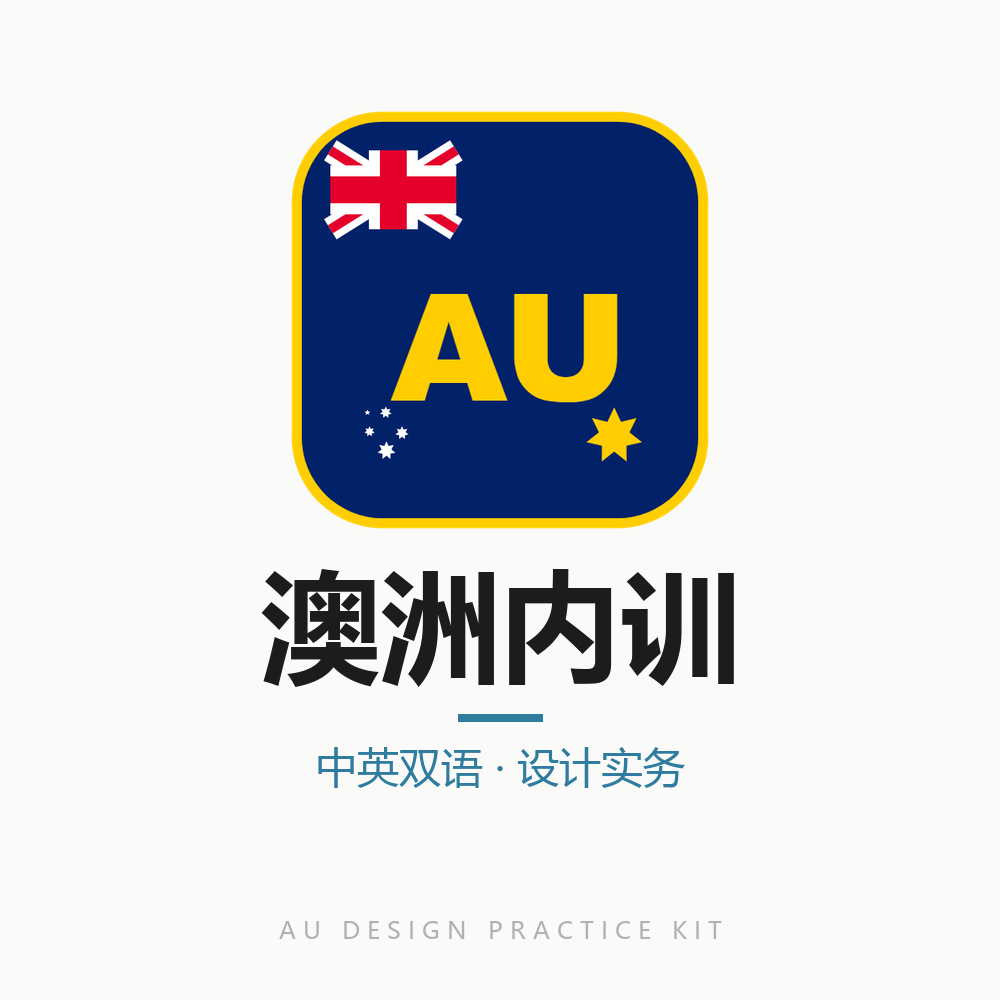
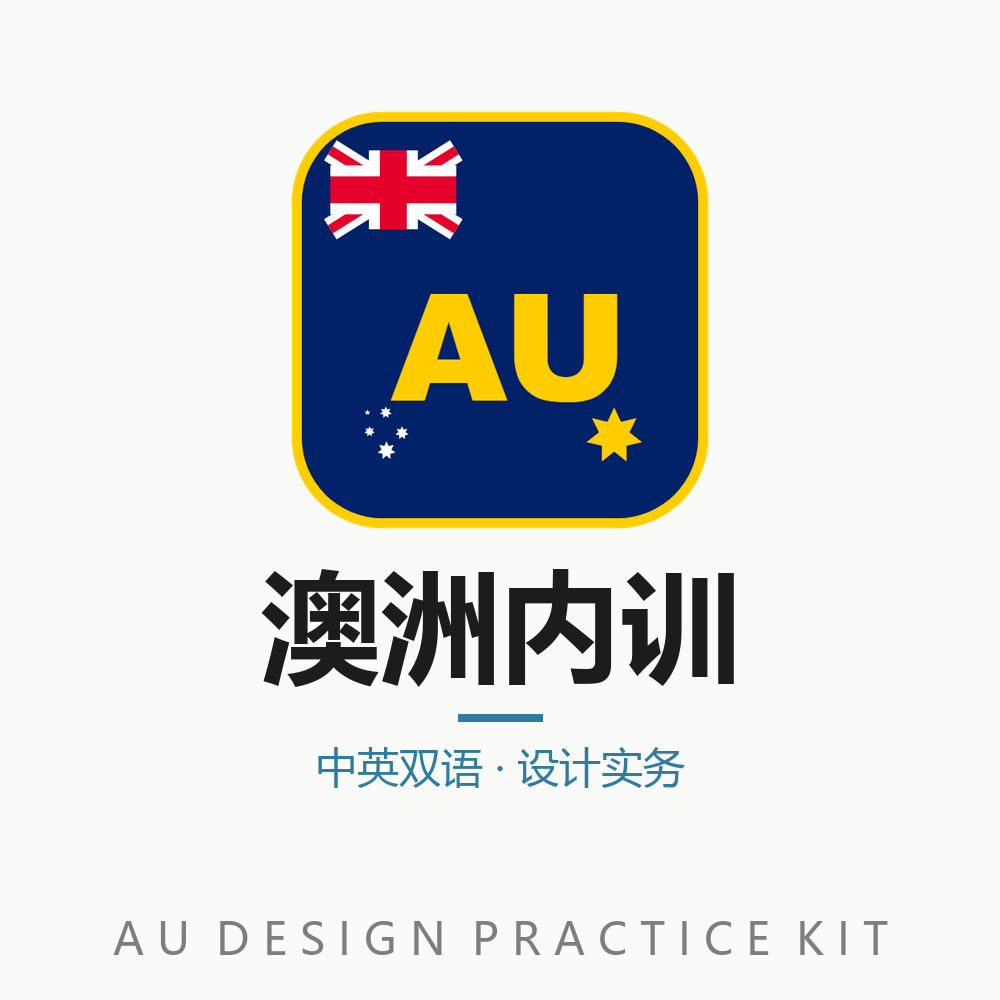
澳洲内训缩略图：底部英文脚注 24px→44px 并加深

Changed region(s): [[0.217, 0.899, 0.899, 0.961], [0.093, 0.93, 0.186, 0.961]]

diff --git a/make_autrain_thumb.py b/make_autrain_thumb.py
@@ -1,0 +1,46 @@
+# -*- coding: utf-8 -*-
+"""生成资源页「澳洲内训」卡片缩略图 autrain_thumb.jpg（1000×1000）。
+
+版式：B 方案图标 430px 居中 + 标题「澳洲内训」120px + 蓝短横线 +
+副标题「中英双语 · 设计实务」42px + 底部英文脚注 44px（2026-11-05 由 24px 加大，
+原尺寸在 120px 卡片上不足 3px 不可辨认）。
+
+依赖：Pillow、系统字体 msyhbd.ttc / msyh.ttc（Windows）。
+用法：在 resources/ 目录下 python make_autrain_thumb.py
+"""
+from PIL import Image, ImageDraw, ImageFont
+
+BG = (250, 250, 248)
+W = 1000
+FB = "C:/Windows/Fonts/msyhbd.ttc"
+FR = "C:/Windows/Fonts/msyh.ttc"
+
+
+def build():
+    im = Image.new("RGB", (W, W), BG)
+    d = ImageDraw.Draw(im)
+
+    def center(text, font, cy, fill):
+        bb = d.textbbox((0, 0), text, font=font)
+        d.text(((W - (bb[2] - bb[0])) / 2 - bb[0], cy - (bb[3] - bb[1]) / 2 - bb[1]),
+               text, font=font, fill=fill)
+        return bb[2] - bb[0]
+
+    icon = Image.open("autrain_icon.png").convert("RGBA").resize((430, 430), Image.LANCZOS)
+    im.paste(icon, ((W - 430) // 2, 105), icon)
+
+    center("澳洲内训", ImageFont.truetype(FB, 120), 628, (28, 28, 26))
+    d.rectangle([(W - 84) // 2, 714, (W - 84) // 2 + 84, 721], fill=(47, 124, 158))
+    center("中英双语 · 设计实务", ImageFont.truetype(FR, 42), 768, (47, 124, 158))
+
+    w = center("A U  D E S I G N  P R A C T I C E  K I T",
+               ImageFont.truetype(FR, 44), 938, (125, 127, 125))
+    assert w <= 920, "脚注过宽，需收窄字距"
+
+    im.save("autrain_thumb.jpg", quality=93, subsampling=0)
+    im.resize((120, 120), Image.LANCZOS).save("_thumb_preview_120.png")
+
+
+if __name__ == "__main__":
+    build()
+    print("已生成 autrain_thumb.jpg 与预览 _thumb_preview_120.png")
